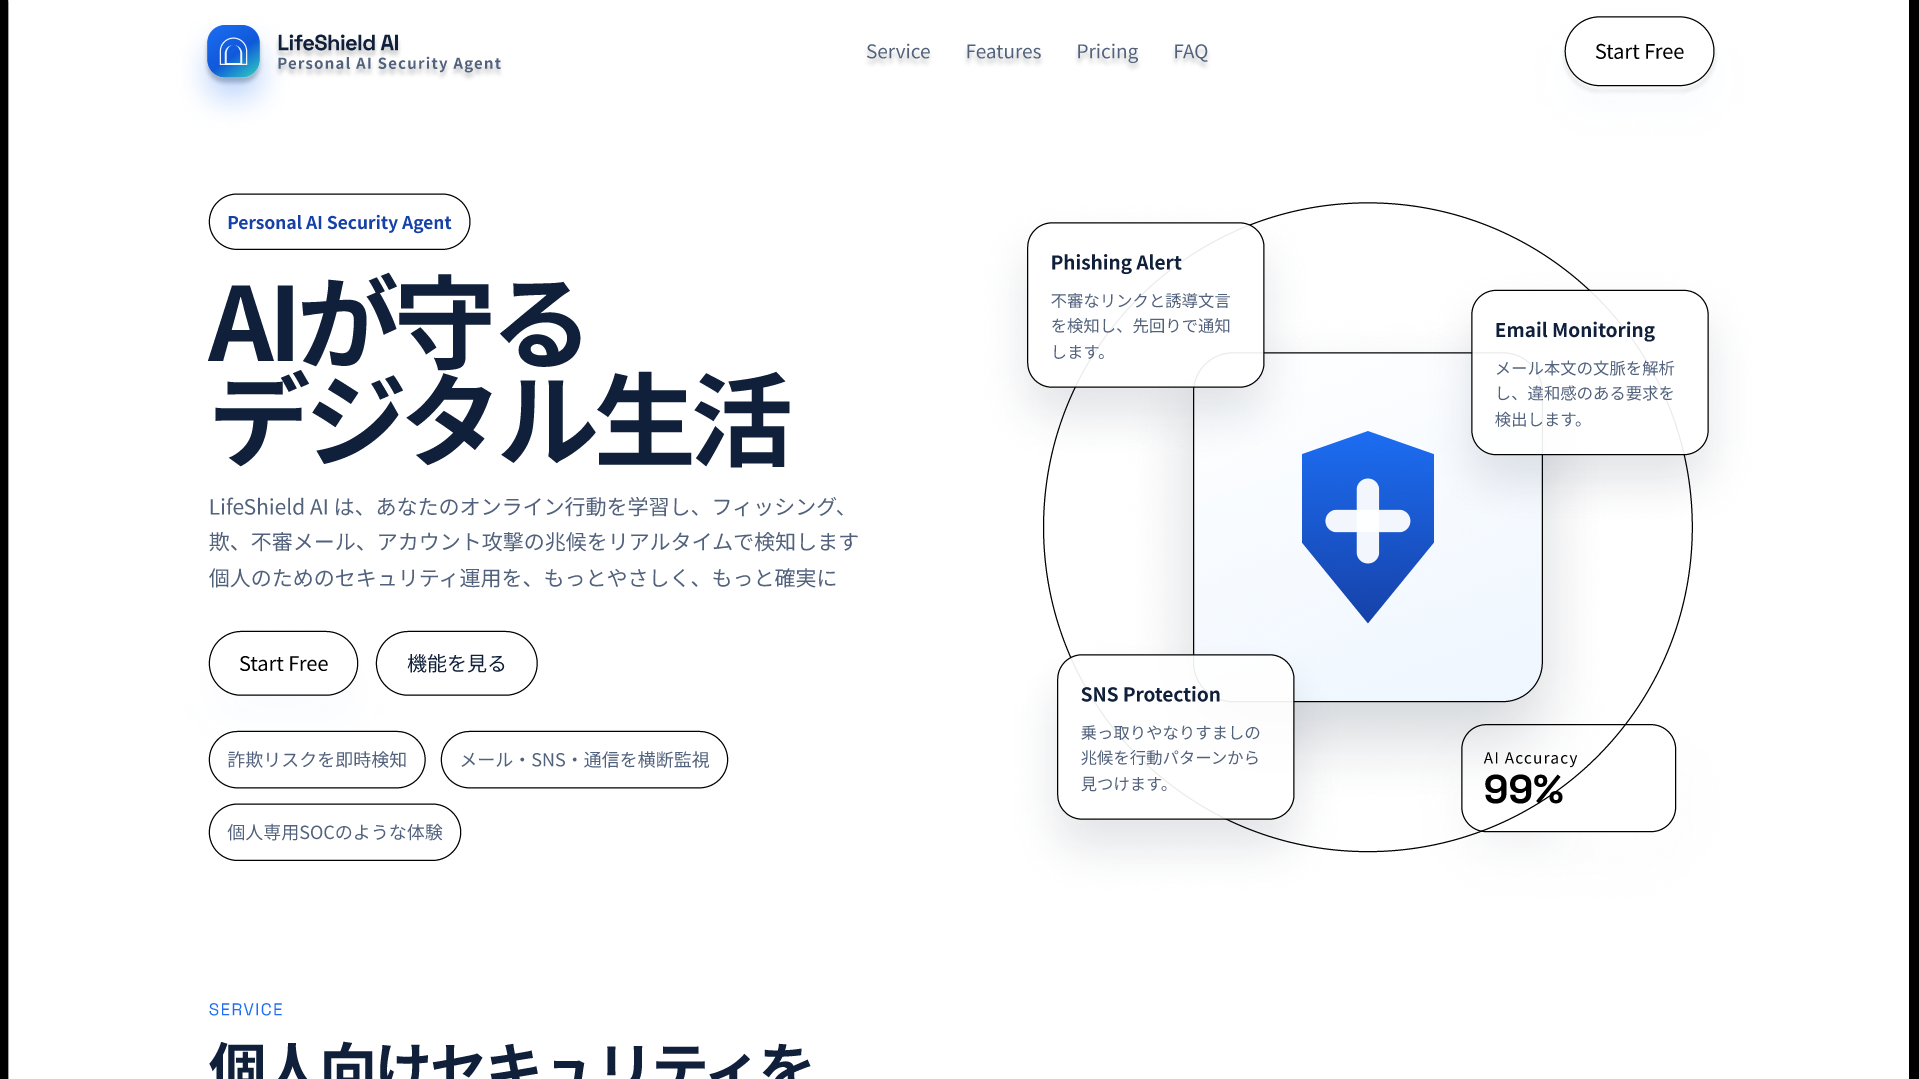
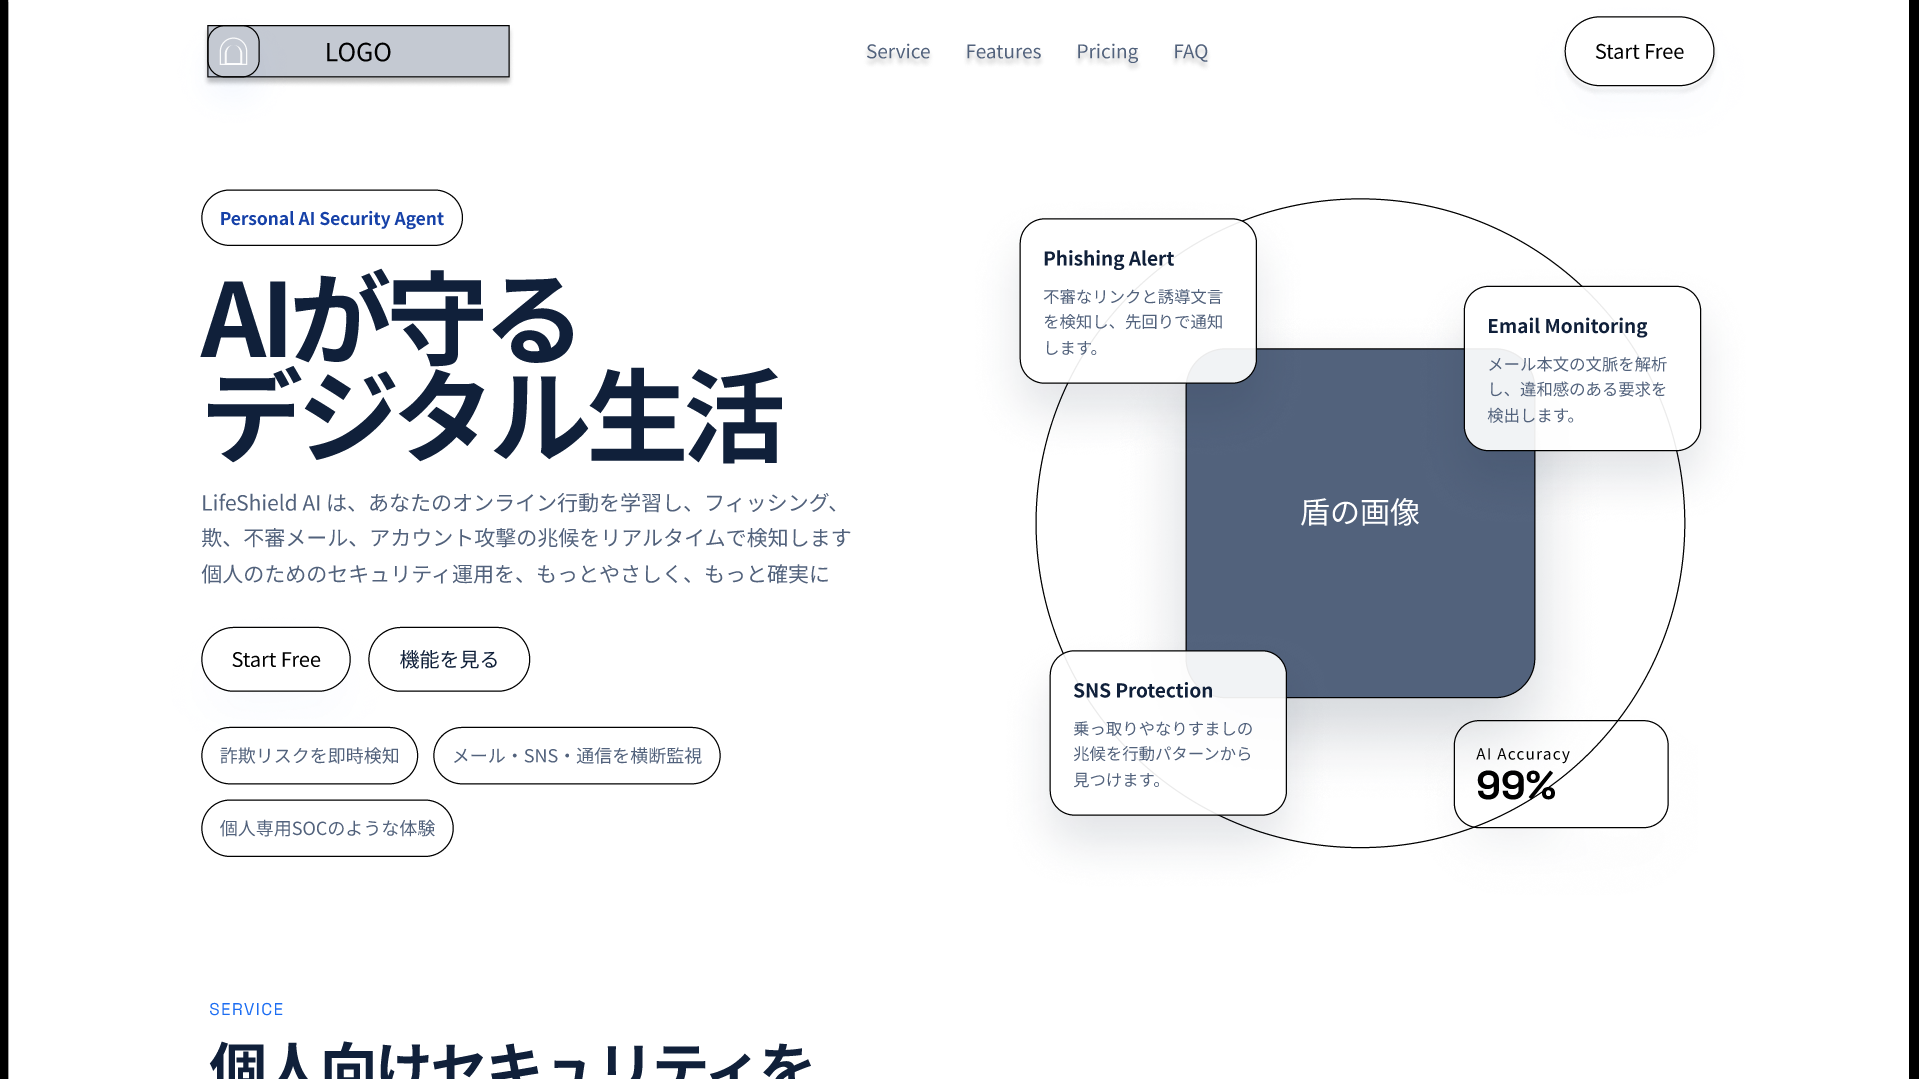
トップページワイヤーフレーム構成案の記述を、ウェブデザイン業界以外の７会社役員に対してプレゼンする前提で、数字を廃し、なるべく分かり易く簡潔な文章での記述に変更 「役員向け説明用に、構成を短く分かり易く説明した概要」を削除

diff --git a/docs/05-wireframe.html b/docs/05-wireframe.html
@@ -91,35 +91,11 @@
 
         <div class="fill-block">
           <div class="fill-label">トップページ ワイヤーフレーム構成案 <span class="required">必須</span></div>
-          <div class="fill-hint">ユーザー指定のFigma構成に合わせたPC版トップページのセクション順</div>
           <div class="fill-content">
-            <pre style="white-space:pre-wrap;line-height:1.8;margin:0;">[HEADER / 80px]
-Logo         Nav Menu              CTA Button
-
-[HERO / 600px]
-TEXT AREA                         IMAGE
-Title                             AIセキュリティイラスト
-Text                              (PC / SNS / Shield)
-Button
-
-[FEATURE / 500px]
-タイトル：LifeShield AIの機能
-[AI詐欺検知] [メール監視] [SNS監視] [通信異常検知]
-
-[RESULT / 300px]
-50000+        120万        99%
-ユーザー数     詐欺検知     AI精度
-
-[CTA / 320px]
-今すぐAIセキュリティを始めよう
-無料でLifeShield AIを体験
-[無料で始める]
-
-[FOOTER / 220px]
-Logo
-サービス 料金 FAQ
-SNS / Twitter / LinkedIn
-© LifeShield AI</pre>
+            <p>ページの上部でサービス名と主要メニューを見せ、すぐに内容へ入れる構成にしています。</p>
+            <p>最初に大きなメッセージとイメージで「何のサービスか」を直感的に伝え、その下で主な機能を分かりやすく紹介します。</p>
+            <p>続いて実績を見せて信頼感を高め、最後に申し込みや問い合わせにつながる案内を配置しています。</p>
+            <p>全体として、初めて見る人でも短時間で内容を理解し、次の行動を選びやすい流れを意図しています。</p>
           </div>
         </div>
         <div class="fill-block">
